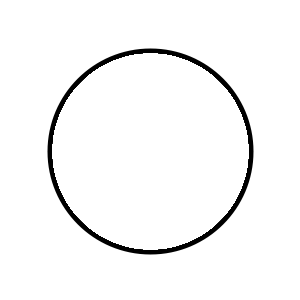
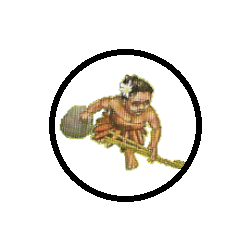
Textures + Leaderboard !(On Top) Fix(?)

Changed region(s): [[0.14, 0.14, 0.868, 0.868]]

diff --git a/Properties/Resources.Designer.cs b/Properties/Resources.Designer.cs
@@ -63,9 +63,9 @@ namespace Blue_Lagoon___Chaos_Edition.Properties {
         /// <summary>
         ///   Looks up a localized resource of type System.Drawing.Bitmap.
         /// </summary>
-        internal static System.Drawing.Bitmap hexDesert {
+        internal static System.Drawing.Bitmap hexDesert1 {
             get {
-                object obj = ResourceManager.GetObject("hexDesert", resourceCulture);
+                object obj = ResourceManager.GetObject("hexDesert1", resourceCulture);
                 return ((System.Drawing.Bitmap)(obj));
             }
         }
@@ -73,9 +73,9 @@ namespace Blue_Lagoon___Chaos_Edition.Properties {
         /// <summary>
         ///   Looks up a localized resource of type System.Drawing.Bitmap.
         /// </summary>
-        internal static System.Drawing.Bitmap hexLand {
+        internal static System.Drawing.Bitmap hexDesert2 {
             get {
-                object obj = ResourceManager.GetObject("hexLand", resourceCulture);
+                object obj = ResourceManager.GetObject("hexDesert2", resourceCulture);
                 return ((System.Drawing.Bitmap)(obj));
             }
         }
@@ -83,9 +83,9 @@ namespace Blue_Lagoon___Chaos_Edition.Properties {
         /// <summary>
         ///   Looks up a localized resource of type System.Drawing.Bitmap.
         /// </summary>
-        internal static System.Drawing.Bitmap hexSnow {
+        internal static System.Drawing.Bitmap hexLand1 {
             get {
-                object obj = ResourceManager.GetObject("hexSnow", resourceCulture);
+                object obj = ResourceManager.GetObject("hexLand1", resourceCulture);
                 return ((System.Drawing.Bitmap)(obj));
             }
         }
@@ -93,9 +93,49 @@ namespace Blue_Lagoon___Chaos_Edition.Properties {
         /// <summary>
         ///   Looks up a localized resource of type System.Drawing.Bitmap.
         /// </summary>
-        internal static System.Drawing.Bitmap hexWater {
+        internal static System.Drawing.Bitmap hexLand2 {
             get {
-                object obj = ResourceManager.GetObject("hexWater", resourceCulture);
+                object obj = ResourceManager.GetObject("hexLand2", resourceCulture);
+                return ((System.Drawing.Bitmap)(obj));
+            }
+        }
+        
+        /// <summary>
+        ///   Looks up a localized resource of type System.Drawing.Bitmap.
+        /// </summary>
+        internal static System.Drawing.Bitmap hexLand3 {
+            get {
+                object obj = ResourceManager.GetObject("hexLand3", resourceCulture);
+                return ((System.Drawing.Bitmap)(obj));
+            }
+        }
+        
+        /// <summary>
+        ///   Looks up a localized resource of type System.Drawing.Bitmap.
+        /// </summary>
+        internal static System.Drawing.Bitmap hexLand4 {
+            get {
+                object obj = ResourceManager.GetObject("hexLand4", resourceCulture);
+                return ((System.Drawing.Bitmap)(obj));
+            }
+        }
+        
+        /// <summary>
+        ///   Looks up a localized resource of type System.Drawing.Bitmap.
+        /// </summary>
+        internal static System.Drawing.Bitmap hexSnow1 {
+            get {
+                object obj = ResourceManager.GetObject("hexSnow1", resourceCulture);
+                return ((System.Drawing.Bitmap)(obj));
+            }
+        }
+        
+        /// <summary>
+        ///   Looks up a localized resource of type System.Drawing.Bitmap.
+        /// </summary>
+        internal static System.Drawing.Bitmap hexWater1 {
+            get {
+                object obj = ResourceManager.GetObject("hexWater1", resourceCulture);
                 return ((System.Drawing.Bitmap)(obj));
             }
         }

diff --git a/Forms/Game.cs b/Forms/Game.cs
@@ -10,7 +10,6 @@ namespace Blue_Lagoon___Chaos_Edition {
         // Const references
         public static int displaySize;
         public readonly static Random random = new Random();
-        public readonly static Bitmap[] hexImages = [Resources.hexWater, Resources.hexLand, Resources.hexSnow, Resources.hexDesert];
 
         // Networking variables
         byte[] username;
@@ -21,7 +20,7 @@ namespace Blue_Lagoon___Chaos_Edition {
         Hexagon[,] map;
         int mapSize;
         int displayY;
-
+        
         // Hex configuration variables
         public Size hexSize;
         public Point GetHexPosition(int y, int x) => new Point(x // no complex mathematics done here
@@ -378,7 +377,12 @@ namespace Blue_Lagoon___Chaos_Edition {
     public class Hexagon : PictureBox {
         #region Variables
         // Const refernece variables
+        static readonly Random random = new Random();
         static readonly Bitmap[] ResourceTypes = [Resources.resStatulette, Resources.resWood, Resources.resStone, Resources.resFish, Resources.resMeat, Resources.resWheat];
+        static readonly Bitmap[][] MapImages = [[Resources.hexWater1],
+                                                [Resources.hexLand1, Resources.hexLand2, Resources.hexLand3, Resources.hexLand4],
+                                                [Resources.hexSnow1],
+                                                [Resources.hexDesert1, Resources.hexDesert2]];
         public static Game game;
         public static Region region;
         
@@ -392,7 +396,8 @@ namespace Blue_Lagoon___Chaos_Edition {
             // Hex data variable
             this.y = y;
             this.x = x;
-            baseImage = Game.hexImages[hexType];
+            Bitmap[] images = MapImages[hexType]; // temp
+            baseImage = images[random.Next(images.Length)];
             Clear();
 
             // Hex configuration

diff --git a/Forms/Leaderboard.cs b/Forms/Leaderboard.cs
@@ -13,11 +13,7 @@ namespace Blue_Lagoon___Chaos_Edition {
             Program.ScaleUI(PlayerColumn);
             Program.ScaleUI(ScoreColumn);
 
-            // Timer for progress bar (leaderboard only shown for 5 seconds)
-            Timer timer = new Timer();
-            timer.Interval = 50;
-            timer.Tick += ProgressBarUpdate;
-            timer.Start();
+            
 
             // Loop through every score and display every player with their score on leaderboard
             for (int i = 0; i < scores.Length; i += 2) {
@@ -41,6 +37,15 @@ namespace Blue_Lagoon___Chaos_Edition {
                 LeaderboardPanel.Controls.Add(username);
                 LeaderboardPanel.Controls.Add(score, 1, i / 2 + 1);
             }
+        }
+        private void Leaderboard_Load(object sender, EventArgs e) {
+            this.TopMost = true;
+
+            // Timer for progress bar (leaderboard only shown for 5 seconds)
+            Timer timer = new Timer();
+            timer.Interval = 50;
+            timer.Tick += ProgressBarUpdate;
+            timer.Start();
         }
 
         private void ProgressBarUpdate(object? sender, EventArgs e) {

diff --git a/Forms/Leaderboard.Designer.cs b/Forms/Leaderboard.Designer.cs
@@ -131,6 +131,7 @@
             Name = "Leaderboard";
             StartPosition = FormStartPosition.CenterParent;
             Text = "Blue Lagoon - Chaos Edition";
+            Load += Leaderboard_Load;
             BackgroundPanel.ResumeLayout(false);
             BackgroundPanel.PerformLayout();
             LeaderboardPanel.ResumeLayout(false);
